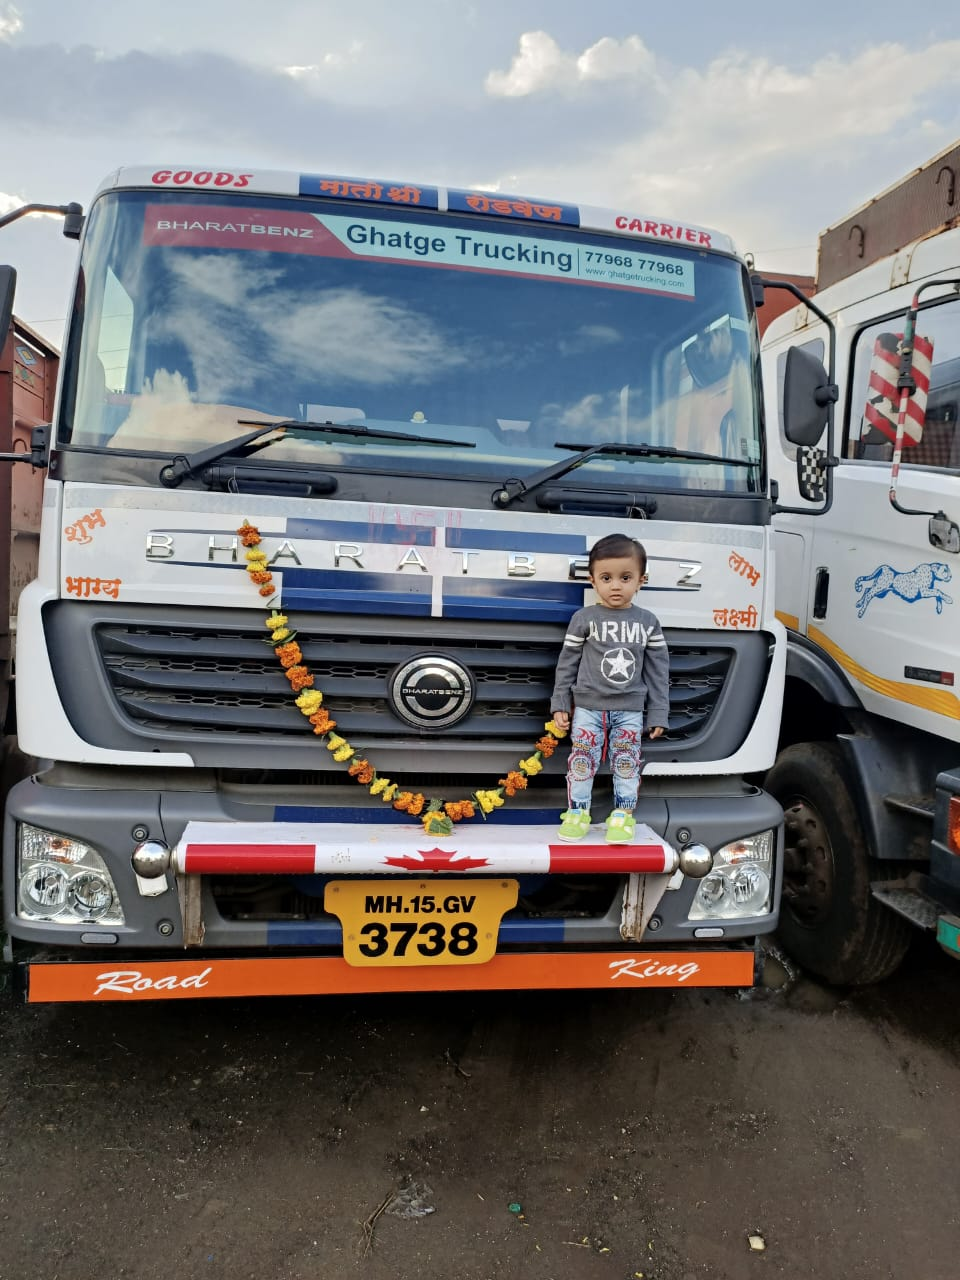
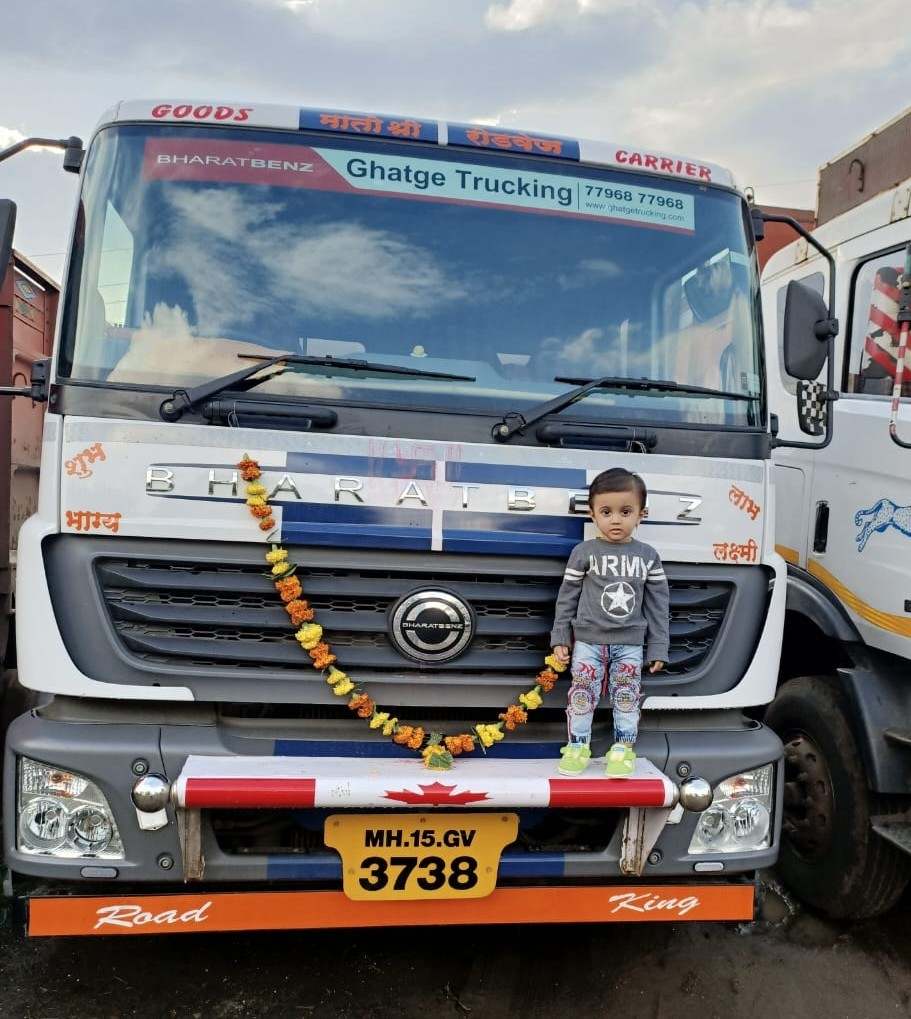
sa

diff --git a/index.html b/index.html
@@ -452,7 +452,7 @@
                 <div class="col-lg-3 col-md-6 wow fadeInUp" data-wow-delay="0.7s">
                     <div class="team-item">
                         <div class="overflow-hidden">
-                            <img class="img-fluid" src="image/img17.jpg" alt="" style="height: 300px;">
+                            <img class="img-fluid" src="image/img19.jpg" alt="" style="height: 300px;">
                         </div>
                         <div class="position-relative d-flex justify-content-center" style="margin-top: -19px;">
                         </div>
@@ -657,7 +657,7 @@
                 <div class="row">
                     <div class="col-md-6 text-center text-md-start mb-3 mb-md-0">
                         &copy; <a class="border-bottom" href="#">Matoshri Roadways </a>, 2025 All Rights Reserved.
-                        Designed By <a class="border-bottom" href="https://a2zithub.org/" target="_blank">A2Z IT HUB</a>
+                        Designed By <a class="border-bottom" href="https://a2zithub.org/" target="_blank">A2Z IT HUB PVT LTD.</a>
                     </div>
                    
                 </div>
